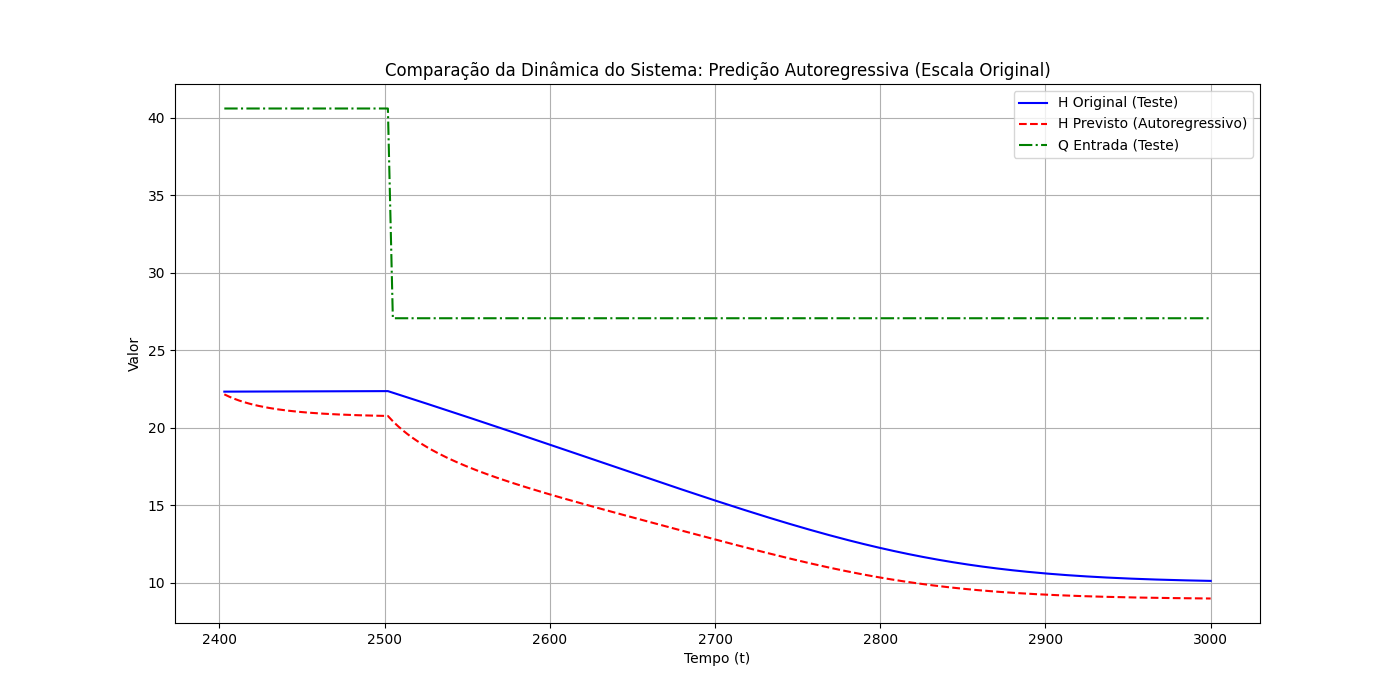
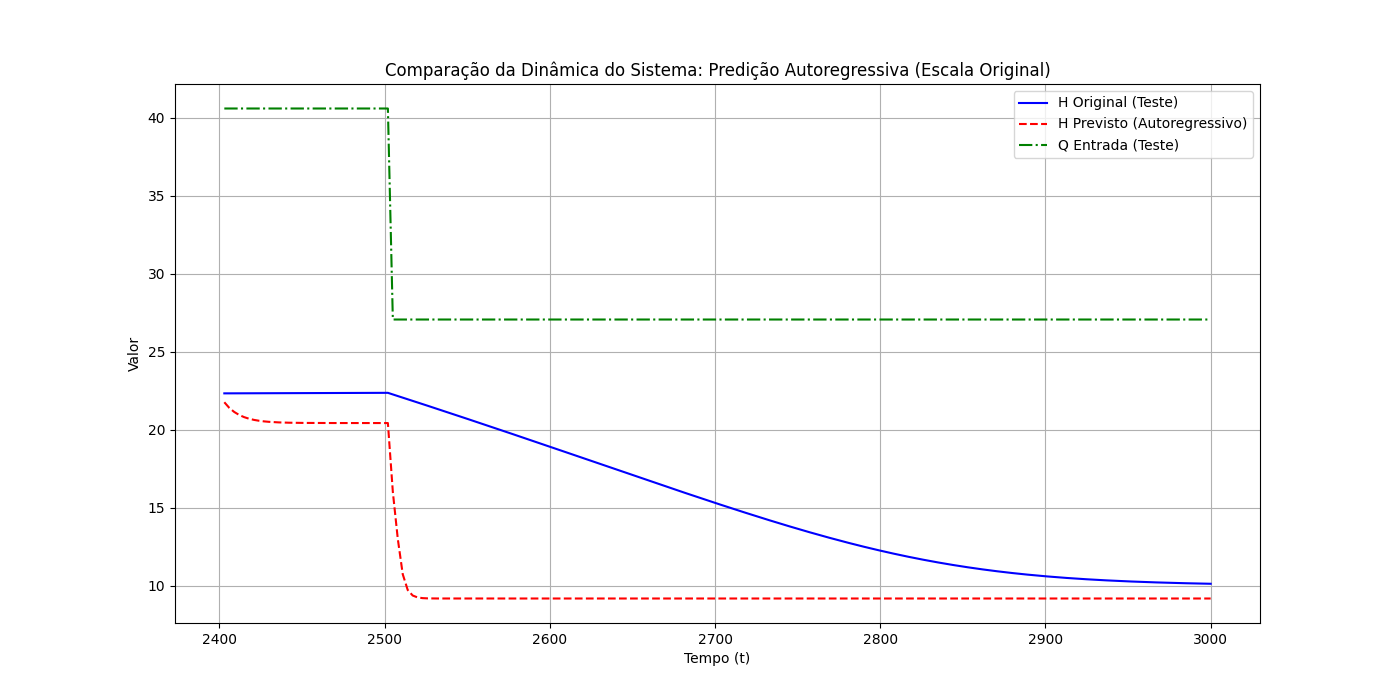
Tentar colocar a rede implicita pra rodar antes de colocar como explicita

diff --git a/MPC_to_NN/DEQ - Shaojie Bai/DEQ.py b/MPC_to_NN/DEQ - Shaojie Bai/DEQ.py
@@ -1,0 +1,35 @@
+import argparse
+import torch
+from torchdeq import get_deq, apply_norm, reset_norm
+from torchdeq.utils import add_deq_args
+from .layers import Injection, DEQFunc, Decoder
+class DEQDemo(torch.nn.Module):
+    def __init__(self, args):
+        super().__init__()
+        self.deq_func = DEQFunc(args)
+        apply_norm(self.deq_func, args=args)
+        self.deq = get_deq(args)
+    def forward(self, x, z0):
+        reset_norm(self.deq_func)
+        f = lambda z: self.deq_func(z, x)
+        return self.deq(f, z0)
+def train(args, inj, deq, decoder, loader, loss, opt):
+    for x, y in loader:
+        z0 = torch.randn(args.z_shape)
+        z_out, info = deq(inj(x), z0)
+        l = loss(decoder(z_out[-1]), y)
+        l.backward()
+        opt.step()
+        logger.info(f'Loss: {l.item()}, '
+        +f'Rel: {info['rel_lowest'].mean().item()}'
+        +f'Abs: {info['abs_lowest'].mean().item()}')
+'''Add other arguments.'''
+parser = argparse.ArgumentParser()
+add_deq_args(parser)
+args = parser.parse_args()
+inj = Injection(args)
+deq = DEQDemo(args)
+decoder = Decoder(args)
+''' Set up loader, logger, loss, opt, etc as in
+standard PyTorch. '''
+train(args, inj, deq, decoder, loader, loss, opt)

diff --git a/MPC_to_NN/DEQ - Shaojie Bai/SuspensaoAtivaDEQ.py b/MPC_to_NN/DEQ - Shaojie Bai/SuspensaoAtivaDEQ.py
@@ -71,19 +71,9 @@ class SystemDEQ(nn.Module):
         # Rede f(z, u) 
         self.f_network = nn.Sequential(
             nn.Linear(hidden_dim + input_dim, hidden_dim),
-            nn.Tanh(),
+            nn.ReLU(),
             nn.Linear(hidden_dim, hidden_dim),
-            nn.Tanh(),
-            nn.Linear(hidden_dim, hidden_dim),
-            nn.Tanh(),
-            nn.Linear(hidden_dim, hidden_dim),
-            nn.Tanh(),
-            nn.Linear(hidden_dim, hidden_dim),
-            nn.Tanh(),
-            nn.Linear(hidden_dim, hidden_dim),
-            nn.Tanh(),
-            nn.Linear(hidden_dim, hidden_dim),
-            nn.Tanh(),
+            nn.ReLU(),
             nn.Linear(hidden_dim, hidden_dim)
         )
         self.output_layer = nn.Linear(hidden_dim, output_dim)
@@ -101,7 +91,7 @@ INPUT_DIM = U_train.shape[1]
 HIDDEN_DIM = 32
 OUTPUT_DIM = Y_train.shape[1]
 LEARNING_RATE = 5e-4 # Taxa de aprendizado reduzida para maior estabilidade
-EPOCHS = 500
+EPOCHS = 1000
 
 # --- Instanciar o modelo, a função de perda e o otimizador ---
 model = SystemDEQ(input_dim=INPUT_DIM, hidden_dim=HIDDEN_DIM, output_dim=OUTPUT_DIM)

diff --git a/MPC_to_NN/MPCvsNN - Sistema Compressão/run_sim.py b/MPC_to_NN/MPCvsNN - Sistema Compressão/run_sim.py
@@ -206,7 +206,7 @@ for j in range(K):
 
 # Simulação da rede neural implicita
 
-iters = 1
+iters = 50
 y_store = np.zeros((Nx*p*Nu*m, iters))
 phi_store = np.zeros((Nx*p*Nu*m, iters))
 res_store = np.zeros((Nx*p*Nu*m, iters))
@@ -234,7 +234,7 @@ for g in range(Nx*p):
         phi[g] = 0
 
 residual = y0 - D @ phi - zeta
-K_gain = 1
+K_gain = 1.1 * np.eye(Nx*p*Nu*m)
 y = y0.copy()
 
 deltaU_nn = np.zeros((K, Nu))
@@ -249,7 +249,7 @@ for k in range(K):
         y_store[:, i:i+Nx] = y
         phi_store[:, i:i+Nx] = phi
         res_store[:, i:i+Nx] = residual
-        ykp1 = D @ phi + zeta + K_gain * residual
+        ykp1 = D @ phi + zeta + K_gain @ residual
 
         for g in range(Nx*p*Nu*m):
             if ykp1[g] > 0:
